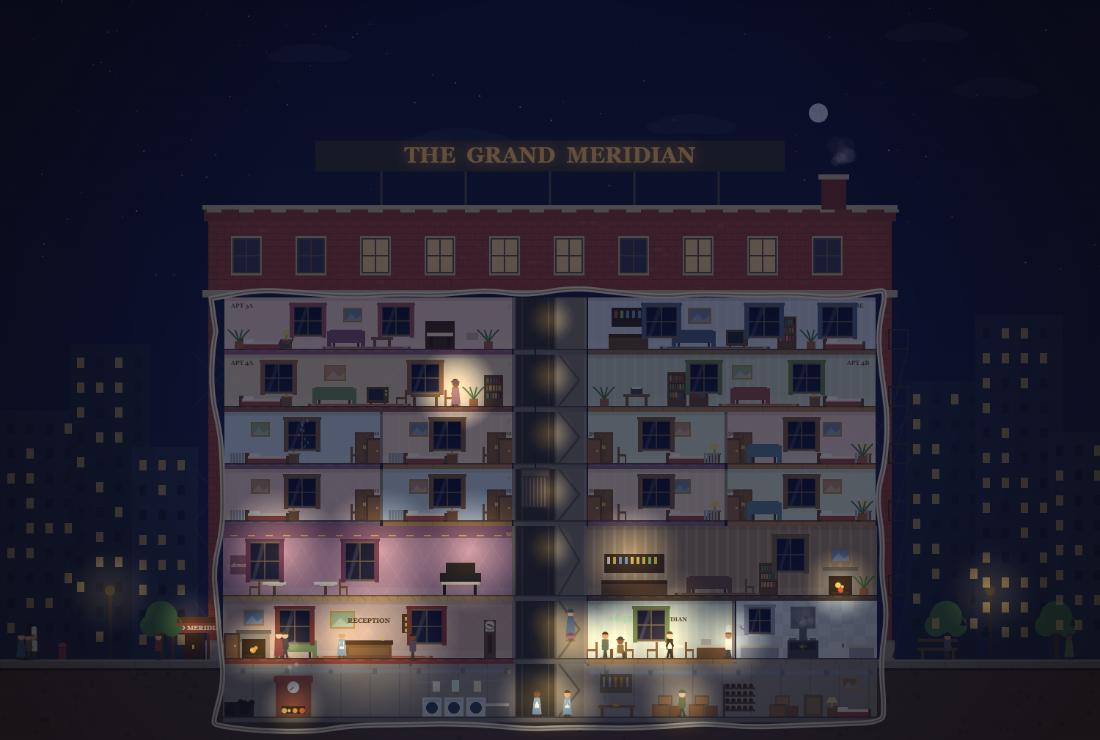
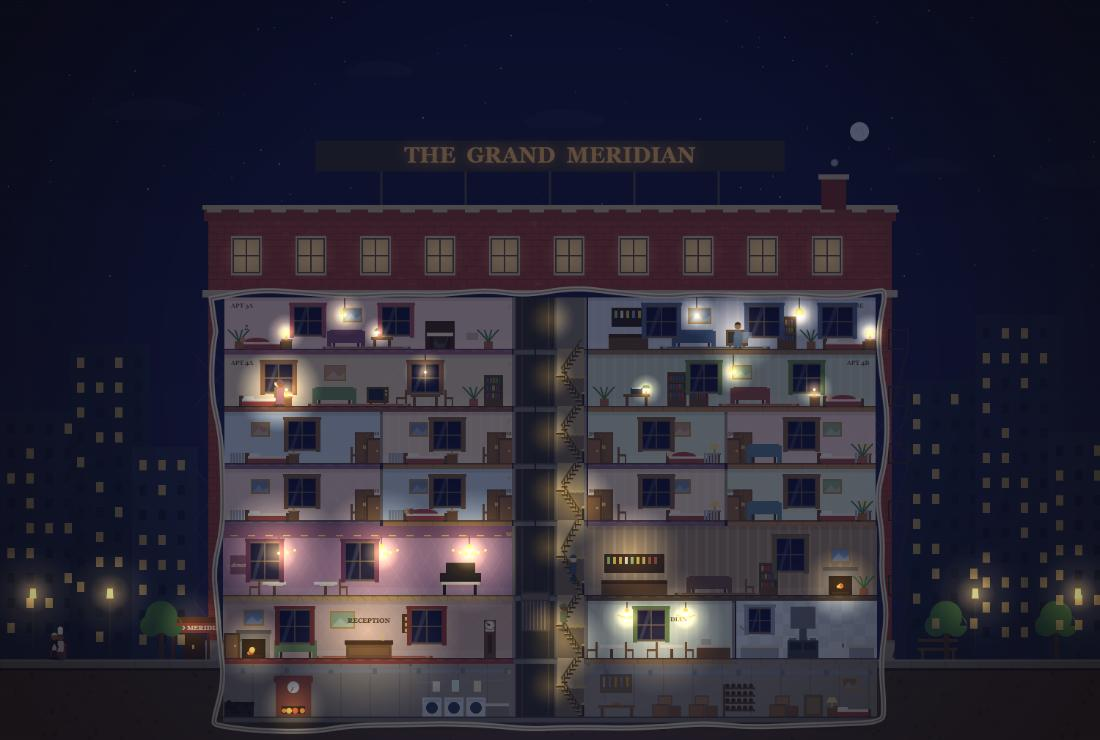
Glowing lamps everywhere + art deco staircase
- Attic windows all glow at night, each waking at its own moment
- Old gas-style street lamps (fluted posts, lantern heads) that switch
  on at 5pm and pool light on the pavement
- Chandeliers in the ballroom and cafe, pendant/desk/bedside lamps in
  every apartment - miniature fittings that glow after dark
- Art deco switchback staircase: walnut treads, brass nosings, stepped
  balustrade, chevron dado and sunburst medallions
- People now walk the stairs correctly, zigzagging up each flight

diff --git a/index.html b/index.html
@@ -144,7 +144,9 @@
 // ============================== WORLD CONSTANTS ==============================
 const W=1500, H=1010;
 const BL=290, BR=1210, IL=304, IR=1196;      // building & interior x bounds
-const CORE_L=700, CORE_R=800, LIFT_L=704, LIFT_R=756, STAIRX=778;
+const CORE_L=700, CORE_R=800, LIFT_L=704, LIFT_R=756;
+const STAIR_R=792, STAIR_L=766, STAIRX=STAIR_R;   // switchback stair endpoints in the core
+const STREETLAMPS=[45,150,1330,1470];             // old gas-style lamps, lit from 5pm
 const STREET=900, DOOR_OUT=262, DOOR_IN=318; // entrance
 const FLOORS=[
   {name:'Basement',    top:906, y:978},
@@ -277,7 +279,27 @@ function bed(x,y,w=52){ fr(g,x-4,y-14,6,16,'#5e4126'); fr(g,x+w-2,y-10,6,12,'#5e
   fr(g,x,y-10,w,6,'#e8e0cc'); fr(g,x,y-6,w,6,'#9c3f38');                                   // mattress+blanket
   fr(g,x+2,y-13,14,5,'#f4efdf'); }                                                          // pillow
 function sideTable(x,y){fr(g,x,y-12,14,12,'#7a5230'); fr(g,x-1,y-13,16,2,'#8f6238');}
-function tblLamp(x,y){fr(g,x+5,y-19,3,7,'#caa24a'); g.fillStyle='#e8c87a'; g.beginPath();g.moveTo(x-1,y-19);g.lineTo(x+14,y-19);g.lineTo(x+11,y-26);g.lineTo(x+2,y-26);g.fill();}
+const DECOR_LAMPS=[]; // miniature light fittings that glow after dark {x,y,r}
+function tblLamp(x,y,reg){fr(g,x+5,y-19,3,7,'#caa24a'); g.fillStyle='#e8c87a'; g.beginPath();g.moveTo(x-1,y-19);g.lineTo(x+14,y-19);g.lineTo(x+11,y-26);g.lineTo(x+2,y-26);g.fill();
+  if(reg)DECOR_LAMPS.push({x:x+6.5,y:y-22,r:26});}
+function pendantLamp(x,ceil,drop=16){g.strokeStyle='#3a3128';g.lineWidth=1.4;g.beginPath();g.moveTo(x,ceil);g.lineTo(x,ceil+drop);g.stroke();
+  fr(g,x-1.5,ceil+drop,3,2,'#b08d3e');
+  g.fillStyle='#d9b25c'; g.beginPath();g.moveTo(x-7,ceil+drop+8);g.lineTo(x+7,ceil+drop+8);g.lineTo(x+4,ceil+drop+2);g.lineTo(x-4,ceil+drop+2);g.fill();
+  fr(g,x-5,ceil+drop+8,10,1.5,'#b08d3e');
+  DECOR_LAMPS.push({x,y:ceil+drop+10,r:30});}
+function deskLamp(x,y){fr(g,x-4,y-17,8,1.5,'#b08d3e'); fr(g,x-1,y-24,2,7,'#8a6f30');
+  g.fillStyle='#3f6b4f'; g.beginPath();g.moveTo(x-6,y-24);g.lineTo(x+6,y-24);g.lineTo(x+3,y-28);g.lineTo(x-3,y-28);g.fill();
+  DECOR_LAMPS.push({x,y:y-22,r:22});}
+function chandelier(x,ceil,big=true){const w=big?22:14, drop=big?10:8;
+  g.strokeStyle='#3a3128';g.lineWidth=1.4;g.beginPath();g.moveTo(x,ceil);g.lineTo(x,ceil+drop);g.stroke();
+  g.fillStyle='#c9a24a'; g.beginPath();g.arc(x,ceil+drop+3,3,0,7);g.fill();
+  g.strokeStyle='#c9a24a';g.lineWidth=1.6;
+  g.beginPath();g.moveTo(x-w,ceil+drop+9);g.quadraticCurveTo(x,ceil+drop+16,x+w,ceil+drop+9);g.stroke();
+  g.beginPath();g.moveTo(x-w*0.55,ceil+drop+12);g.quadraticCurveTo(x,ceil+drop+17,x+w*0.55,ceil+drop+12);g.stroke();
+  const arms=big?[-w,-w*0.55,0,w*0.55,w]:[-w,0,w];
+  for(const bx of arms){const by=bx===0?16:(Math.abs(bx)>w*0.6?9:12);
+    g.fillStyle='#f2dfae';g.beginPath();g.arc(x+bx,ceil+drop+by-1,1.8,0,7);g.fill();}
+  DECOR_LAMPS.push({x,y:ceil+drop+12,r:big?46:34});}
 function wardrobe(x,y){fr(g,x,y-42,26,42,'#6e4a28'); fr(g,x+2,y-40,10,38,'#7d5630'); fr(g,x+14,y-40,10,38,'#7d5630'); fr(g,x+11,y-24,2,5,'#d8b45a'); fr(g,x+13.5,y-24,2,5,'#d8b45a');}
 function painting(x,y,w=20,h=15,col='#87a07c'){fr(g,x-2,y-2,w+4,h+4,'#a8843c'); fr(g,x,y,w,h,col); g.fillStyle='rgba(255,255,255,.25)'; g.beginPath();g.moveTo(x,y+h);g.lineTo(x+w*.4,y+h*.35);g.lineTo(x+w*.7,y+h*.8);g.lineTo(x+w,y+h*.5);g.lineTo(x+w,y+h);g.fill();}
 function plant(x,y){fr(g,x,y-10,12,10,'#9c5a34'); g.strokeStyle='#3f6b3a';g.lineWidth=2;
@@ -383,6 +405,7 @@ function buildStatic(){
    partition(802,t,y);
    wallpaper(802,t,1000,y,'#cfd8c2','stripe'); floorBoards(802,1000,y,'#9c744a');
    windowFrameReg(868,t+12,40,42,'#5f7a44');
+   chandelier(855,t+2,false); chandelier(935,t+2,false);
    cafeTable(820,y); chair(812,y,-1); chair(852,y,1);
    cafeTable(902,y); chair(894,y,-1); chair(934,y,1);
    counterTop(950,y,46,'#6e4a28'); fr(g,956,y-26,14,8,'#b8b0a0'); // cake dome
@@ -401,6 +424,7 @@ function buildStatic(){
    floorBoards(IL,CORE_L,y,'#c09a5e'); g.strokeStyle='rgba(120,70,20,.35)';g.lineWidth=1;
    for(let x=IL;x<CORE_L;x+=17){g.beginPath();g.moveTo(x,y);g.lineTo(x+8,y+8);g.stroke();} // parquet
    windowFrameReg(340,t+22,42,52,'#6b3050'); windowFrameReg(470,t+22,42,52,'#6b3050');
+   chandelier(380,t+15); chandelier(520,t+15); chandelier(640,t+15);
    pianoStatic(600,y,true);
    cafeTable(360,y); chair(352,y,-1); cafeTable(430,y); chair(462,y,1);
    fr(g,IL+10,t+40,60,26,'#7a4a5e'); g.fillStyle='#e0c8a0';g.font='italic 8px Georgia';g.fillText('~ dancing nightly ~',IL+40,t+56); g.textAlign='center';
@@ -431,21 +455,22 @@ function buildStatic(){
   {const t=F[5].top,y=F[5].y; // 4A Babbages / 4B Theo
    wallpaper(306,t,698,y,'#d9c6a8','diamond'); carpet(306,698,y,'#7a4a3c');
    windowFrameReg(360,t+12,40,40,'#8a5a3c'); windowFrameReg(560,t+12,40,40,'#8a5a3c');
-   bed(APTS[0].bedX-20,y); sideTable(APTS[0].bedX+34,y); tblLamp(APTS[0].bedX+34,y);
+   bed(APTS[0].bedX-20,y); sideTable(APTS[0].bedX+34,y); tblLamp(APTS[0].bedX+34,y,true);
    sofa(430,y,52,'#6d8a56'); tvSet(500,y); table(560,y,40); chair(552,y,-1); chair(606,y,1);
-   bookshelf(660,y,42); plant(640,y); painting(444,t+16,26,18,'#b08a6a'); rug(420,y,140);
+   pendantLamp(580,t,14); bookshelf(660,y,42); plant(640,y); painting(444,t+16,26,18,'#b08a6a'); rug(420,y,140);
    g.fillStyle='#5a4326';g.font='bold 8px Georgia';g.fillText('APT 4A',330,t+14);
    wallpaper(802,t,1194,y,'#bcc8b4','stripe'); floorBoards(802,1194,y);
    windowFrameReg(940,t+12,40,40,'#5f7a44'); windowFrameReg(1080,t+12,40,40,'#5f7a44');
-   deskTypewriter(APTS[1].deskX-10,y); bookshelf(910,y,46); bookshelf(940,y,46);
-   sofa(1000,y,46,'#8a4a3c'); bed(APTS[1].bedX-24,y,48); sideTable(1104,y); tblLamp(1104,y);
-   plant(818,y); painting(1000,t+16,24,16,'#87a07c'); rug(980,y,110);
+   deskTypewriter(APTS[1].deskX-10,y); deskLamp(APTS[1].deskX+21,y); bookshelf(910,y,46); bookshelf(940,y,46);
+   sofa(1000,y,46,'#8a4a3c'); bed(APTS[1].bedX-24,y,48); sideTable(1104,y); tblLamp(1104,y,true);
+   pendantLamp(1000,t,14); plant(818,y); painting(1000,t+16,24,16,'#87a07c'); rug(980,y,110);
    g.fillStyle='#5a4326';g.fillText('APT 4B',1170,t+14);
   }
   {const t=F[6].top,y=F[6].y; // 5A Agnes / PH Dr Cross
    wallpaper(306,t,698,y,'#e8c9c0','dot'); carpet(306,698,y,'#8e5a70');
    windowFrameReg(400,t+12,40,40,'#9c4a5a'); windowFrameReg(520,t+12,40,40,'#9c4a5a');
-   bed(APTS[2].bedX-20,y); sideTable(APTS[2].bedX+34,y); tblLamp(APTS[2].bedX+34,y);
+   bed(APTS[2].bedX-20,y); sideTable(APTS[2].bedX+34,y); tblLamp(APTS[2].bedX+34,y,true);
+   pendantLamp(470,t,14); deskLamp(516,y);
    pianoStatic(580,y,false); sofa(450,y,44,'#7a4a6b'); table(506,y,30);
    plant(320,y); plant(660,y); painting(470,t+16,22,16,'#6b7f9c'); rug(440,y,120,'#8e5a70');
    fr(g,636,y-22,16,10,'#b8a890'); // cat basket
@@ -453,6 +478,7 @@ function buildStatic(){
    wallpaper(802,t,1194,y,'#c8ccd8','stripe'); floorBoards(802,1194,y,'#8a6a48');
    windowFrameReg(880,t+12,44,42,'#4a5a7a'); windowFrameReg(1020,t+12,44,42,'#4a5a7a'); windowFrameReg(1120,t+12,44,42,'#4a5a7a');
    bed(APTS[3].bedX-24,y,50); sofa(920,y,52,'#41597a'); tvSet(990,y); barCounter(830,y,54);
+   pendantLamp(950,t,14); pendantLamp(1090,t,14); sideTable(APTS[3].bedX+30,y); tblLamp(APTS[3].bedX+30,y,true);
    bookshelf(1060,y,44); plant(1100,y); painting(940,t+16,28,18,'#6b7f9c'); rug(900,y,150,'#41597a');
    g.fillStyle='#5a4326';g.fillText('PENTHOUSE',1150,t+14);
   }
@@ -462,10 +488,6 @@ function buildStatic(){
     fr(g,LIFT_L,t,LIFT_R-LIFT_L,y-t,'#2e2a26');                       // shaft
     g.strokeStyle='#4a443c';g.lineWidth=1.5; g.beginPath();g.moveTo(LIFT_L+8,t);g.lineTo(LIFT_L+8,y);g.moveTo(LIFT_R-8,t);g.lineTo(LIFT_R-8,y);g.stroke();
     fr(g,LIFT_L-3,t,3,y-t,'#5a5348'); fr(g,LIFT_R,t,3,y-t,'#5a5348');
-    // stairs zigzag
-    g.strokeStyle='#57503f';g.lineWidth=3; g.beginPath();
-    if(fi<6){g.moveTo(CORE_R-38,y);g.lineTo(CORE_R-10,FLOORS[fi+1]?y-(y-t)/2:y);g.lineTo(CORE_R-38,t);}
-    g.stroke();
     g.fillStyle='#d8b45a'; g.font='bold 8px Georgia'; g.fillText(['B','G','M','2','3','4','5'][fi],LIFT_L-10,t+14);
     fr(g,CORE_R-4,t,4,y-t,'#8f8070'); fr(g,CORE_L-2,t,4,y-t,'#8f8070');
   }
@@ -474,6 +496,37 @@ function buildStatic(){
     fr(g,CORE_L,y,CORE_R-CORE_L,8,'#6e6a60');
     fr(g,BL,y,BR-BL,2,'rgba(40,28,14,.55)');}
   fr(g,BL,FLOORS[0].y+8,BR-BL,10,'#3f3122'); // foundation under basement
+  // ---- art deco switchback staircase (drawn over the core) ----
+  for(let fi=0;fi<6;fi++){
+    const yb=FLOORS[fi].y, yt=FLOORS[fi+1].y, ym=(yb+yt)/2;
+    // two-tone deco stairwell wall with a gold chevron trim at the dado line
+    fr(g,760,yt,36,(yb-yt)*0.52,'#a4906a'); fr(g,760,yt+(yb-yt)*0.52,36,(yb-yt)*0.48,'#6e5f46');
+    g.strokeStyle='#c9a24a'; g.lineWidth=1; g.beginPath();
+    for(let cx=760;cx<796;cx+=8){const cy=yt+(yb-yt)*0.52;
+      g.moveTo(cx,cy);g.lineTo(cx+4,cy-3.5);g.lineTo(cx+8,cy);}
+    g.stroke();
+    // sunburst medallion on the half-landing wall
+    g.strokeStyle='#c9a24a'; g.lineWidth=1;
+    for(let a=-2.6;a<=-0.5;a+=0.42){g.beginPath();g.moveTo(778,ym-20);g.lineTo(778+Math.cos(a)*8,ym-20+Math.sin(a)*8);g.stroke();}
+    // flights: lower runs right→left up to the half landing, upper runs back
+    const flight=(x0,y0,x1,y1)=>{const n=7;
+      for(let i=0;i<=n;i++){const sx=lerp(x0,x1,i/n), sy=lerp(y0,y1,i/n);
+        fr(g,sx-4,sy-2.5,8,2.5,'#3c2c1a');            // walnut tread
+        fr(g,sx-4,sy-3.4,8,1,'#c9a24a');}             // brass nosing
+      // stepped deco balustrade + brass handrail
+      g.strokeStyle='#2a241c'; g.lineWidth=1.2;
+      for(let i=1;i<n;i+=1){const bx=lerp(x0,x1,i/n), by=lerp(y0,y1,i/n);
+        g.beginPath();g.moveTo(bx,by-3);g.lineTo(bx,by-(i%2?11:13));g.stroke();}
+      g.strokeStyle='#1e1a14'; g.lineWidth=2;
+      g.beginPath();g.moveTo(x0,y0-13);g.lineTo(x1,y1-13);g.stroke();
+      g.strokeStyle='#c9a24a'; g.lineWidth=0.8;
+      g.beginPath();g.moveTo(x0,y0-14);g.lineTo(x1,y1-14);g.stroke();};
+    flight(STAIR_R,yb,STAIR_L,ym);
+    flight(STAIR_L,ym,STAIR_R,yt);
+    fr(g,758,ym-2.5,12,3,'#3c2c1a'); fr(g,758,ym-3.4,12,1,'#c9a24a'); // half landing
+    // newel post with deco finial at the floor end
+    fr(g,STAIR_R+2,yb-16,2.5,16,'#1e1a14'); fr(g,STAIR_R+1.2,yb-19,4,3,'#c9a24a');
+  }
   buildShell();
 }
 // ---- brick shell with torn cutaway hole ----
@@ -541,9 +594,18 @@ function buildShell(){
   g.fillStyle='#2e2a26'; g.fillRect(430,TOPB-108,640,42);
   g.fillStyle='#6e6254'; g.font='bold 30px Georgia'; g.textAlign='center';
   g.fillText('THE  GRAND  MERIDIAN',750,TOPB-78);
-  // street furniture
-  for(const lx of[150,1350]){g.fillStyle='#2e2a26'; g.fillRect(lx-2,STREET-88,5,88);
-    g.beginPath();g.arc(lx,STREET-94,7,0,7);g.fillStyle='#3a362e';g.fill();}
+  // street furniture — old gas-style lamp posts (glass drawn dynamically so it can glow)
+  for(const lx of STREETLAMPS){
+    g.fillStyle='#23262c';
+    g.fillRect(lx-5,STREET-4,10,4); g.fillRect(lx-3.5,STREET-10,7,6);        // stepped base
+    g.fillRect(lx-1.5,STREET-78,3,68);                                       // fluted post
+    g.fillStyle='rgba(255,255,255,.10)'; g.fillRect(lx-0.4,STREET-78,0.8,68);
+    g.fillStyle='#23262c';
+    g.fillRect(lx-8,STREET-80,16,2.5);                                       // crossbar
+    g.beginPath();g.moveTo(lx-6,STREET-82);g.lineTo(lx+6,STREET-82);g.lineTo(lx+4.5,STREET-98);g.lineTo(lx-4.5,STREET-98);g.closePath();g.fill(); // lantern housing
+    g.fillRect(lx-6,STREET-100,12,2.5);                                      // cap
+    g.beginPath();g.moveTo(lx-2.5,STREET-100);g.lineTo(lx+2.5,STREET-100);g.lineTo(lx,STREET-107);g.closePath();g.fill(); // finial
+  }
   g.fillStyle='#8a3428'; g.fillRect(80,STREET-16,10,16); g.fillStyle='#a84438'; g.beginPath();g.arc(85,STREET-17,6,3.14,6.28);g.fill(); // hydrant
   g.fillStyle='#5e4126'; g.fillRect(1252,STREET-16,54,4); g.fillRect(1252,STREET-28,54,4); g.fillRect(1256,STREET-12,4,12); g.fillRect(1298,STREET-12,4,12); // bench
   for(const tx of[220,1290,1440]){g.fillStyle='#4a3320'; g.fillRect(tx-3,STREET-46,7,46);
@@ -617,10 +679,19 @@ function updatePerson(p,dt,wm){
     if(q.length&&q[0].t==='climb'){
       const st=q[0];
       if(st.from===undefined){st.from=p.floor;st.prog=0;p.x=STAIRX;}
-      st.prog+=dt*wm*0.9/Math.max(1,Math.abs(st.to-st.from));
+      st.prog+=dt*wm*0.7/Math.max(1,Math.abs(st.to-st.from));
       const t=clamp(st.prog,0,1);
-      p.climbY=lerp(FLOORS[st.from].y,FLOORS[st.to].y,t);
-      if(t>=1){p.floor=st.to;p.climbY=null;q.shift();}
+      // continuous floor position; walk the switchback within each storey
+      const f=lerp(st.from,st.to,t);
+      let i=Math.floor(f); if(i>5)i=5; if(i<0)i=0;
+      const frac=clamp(f-i,0,1);
+      const yLo=FLOORS[i].y, yHi=FLOORS[Math.min(i+1,6)].y, ym=(yLo+yHi)/2;
+      let nx,ny;
+      if(frac<0.5){nx=lerp(STAIR_R,STAIR_L,frac*2); ny=lerp(yLo,ym,frac*2);}   // lower flight
+      else        {nx=lerp(STAIR_L,STAIR_R,(frac-0.5)*2); ny=lerp(ym,yHi,(frac-0.5)*2);} // upper flight
+      if(Math.abs(nx-p.x)>0.05)p.dir=nx>p.x?1:-1;
+      p.x=nx; p.climbY=ny;
+      if(t>=1){p.floor=st.to;p.climbY=null;p.x=STAIR_R;q.shift();}
     }
     if(q.length&&q[0].t==='gone'){p.floor=null;p.state='out';q.shift();return;}
     if(!q.length){p.state=p.pose;
@@ -1026,11 +1097,15 @@ function render(time){
   for(const wn of cityWins){const hs=hashLit(wn.seed,day);
     if(nf>0.01&&hs>0.55){const a=clamp((nf-(hs-0.55))/0.35,0,1);
       if(a>0){ctx.fillStyle='rgba(232,190,110,'+(a*0.75)+')';ctx.fillRect(wn.x,wn.y,wn.w,wn.h);}}}
-  for(const wn of extWins){const hs=hashLit(wn.seed,day), lit=hs>0.35;
+  for(const wn of extWins){const hs=hashLit(wn.seed,day);
     ctx.fillStyle='rgba('+(30+top[0]*.3|0)+','+(34+top[1]*.3|0)+','+(52+top[2]*.3|0)+',.9)';
     ctx.fillRect(wn.x,wn.y,wn.w,wn.h);
-    if(lit&&nf>0.01){const a=clamp((nf-hs*0.4)/0.4,0,1);
-      if(a>0){ctx.fillStyle='rgba(240,200,120,'+(a*(0.5+dk*0.5))+')';ctx.fillRect(wn.x,wn.y,wn.w,wn.h);}}
+    if(nf>0.01){const a=clamp((nf-hs*0.25)/0.35,0,1);   // every attic window glows, each waking at its own moment
+      if(a>0){ctx.fillStyle='rgba(240,200,120,'+(a*(0.55+dk*0.45))+')';ctx.fillRect(wn.x,wn.y,wn.w,wn.h);
+        ctx.save();ctx.globalCompositeOperation='lighter';
+        const wg2=ctx.createRadialGradient(wn.x+wn.w/2,wn.y+wn.h/2,2,wn.x+wn.w/2,wn.y+wn.h/2,wn.w);
+        wg2.addColorStop(0,'rgba(255,200,110,'+(0.22*a)+')');wg2.addColorStop(1,'rgba(255,200,110,0)');
+        ctx.fillStyle=wg2;ctx.beginPath();ctx.arc(wn.x+wn.w/2,wn.y+wn.h/2,wn.w,0,7);ctx.fill();ctx.restore();}}
     ctx.strokeStyle='#5a4a3a';ctx.lineWidth=2;ctx.strokeRect(wn.x,wn.y,wn.w,wn.h);
     ctx.beginPath();ctx.moveTo(wn.x,wn.y+wn.h/2);ctx.lineTo(wn.x+wn.w,wn.y+wn.h/2);ctx.moveTo(wn.x+wn.w/2,wn.y);ctx.lineTo(wn.x+wn.w/2,wn.y+wn.h);ctx.stroke();}
   // interior windows: glass shows the sky
@@ -1113,7 +1188,26 @@ function drawAmbient(time,h,dk,day){
     ctx.save();ctx.shadowColor='rgba(255,170,80,.9)';ctx.shadowBlur=18;
     ctx.fillStyle='rgba(255,190,90,'+a+')';ctx.font='bold 30px Georgia';ctx.textAlign='center';
     ctx.fillText('THE  GRAND  MERIDIAN',750,222);ctx.restore();}
-  // entrance lamp glow + street lamps handled in lighting pass
+  // street lanterns come on at five o'clock sharp
+  const lampsOn=h>=17||h<6.25;
+  for(const lx of STREETLAMPS){
+    const la=lampsOn?(0.45+0.55*Math.max(nf,0.15)):0;
+    ctx.fillStyle=la?'rgba(255,214,120,'+la+')':'rgba(180,195,210,.35)';
+    ctx.beginPath();ctx.moveTo(lx-4.5,STREET-83.5);ctx.lineTo(lx+4.5,STREET-83.5);
+    ctx.lineTo(lx+3.5,STREET-96.5);ctx.lineTo(lx-3.5,STREET-96.5);ctx.closePath();ctx.fill();
+    if(la){ctx.save();ctx.globalCompositeOperation='lighter';
+      const rg=ctx.createRadialGradient(lx,STREET-90,2,lx,STREET-90,28);
+      rg.addColorStop(0,'rgba(255,200,110,'+(0.42*la)+')');rg.addColorStop(1,'rgba(255,200,110,0)');
+      ctx.fillStyle=rg;ctx.beginPath();ctx.arc(lx,STREET-90,28,0,7);ctx.fill();ctx.restore();}
+  }
+  // miniature lamps, pendants and chandeliers glow after dark
+  if(nf>0.02){ctx.save();ctx.globalCompositeOperation='lighter';
+    for(const L of DECOR_LAMPS){
+      const rg=ctx.createRadialGradient(L.x,L.y,1,L.x,L.y,L.r*0.55);
+      rg.addColorStop(0,'rgba(255,205,120,'+(0.5*nf)+')');rg.addColorStop(1,'rgba(255,205,120,0)');
+      ctx.fillStyle=rg;ctx.beginPath();ctx.arc(L.x,L.y,L.r*0.55,0,7);ctx.fill();
+      ctx.fillStyle='rgba(255,238,190,'+(0.85*nf)+')';ctx.beginPath();ctx.arc(L.x,L.y,1.6,0,7);ctx.fill();}
+    ctx.restore();}
 }
 function drawCatAndBirds(time,h){
   // Minim the cat, Apt 5A
@@ -1165,7 +1259,8 @@ function drawLighting(h,dk,time,day){
   if(h>=17.5&&h<23.4)for(const bx of[380,520,640])light(bx,FLOORS[2].top+34,86); // ballroom chandeliers
   light(860,FLOORS[2].top+40,70);                               // lounge
   for(let fi=0;fi<7;fi++)light(750,FLOORS[fi].top+30,34);       // stair core
-  for(const lx of[150,1350])light(lx,STREET-92,70);             // street lamps
+  if(h>=17||h<6.25)for(const lx of STREETLAMPS)light(lx,STREET-88,72); // street lamps, on at 5pm
+  for(const L of DECOR_LAMPS)light(L.x,L.y,L.r);                // miniature fittings
   light(BL-30,STREET-52,52);                                    // porch
   if(!fx.boilerBroken)light(400,FLOORS[0].y-12,46);             // boiler glow
   if(h>15||h<7){light(346,FLOORS[1].y-14,52);light(1146,FLOORS[2].y-14,52);} // fireplaces